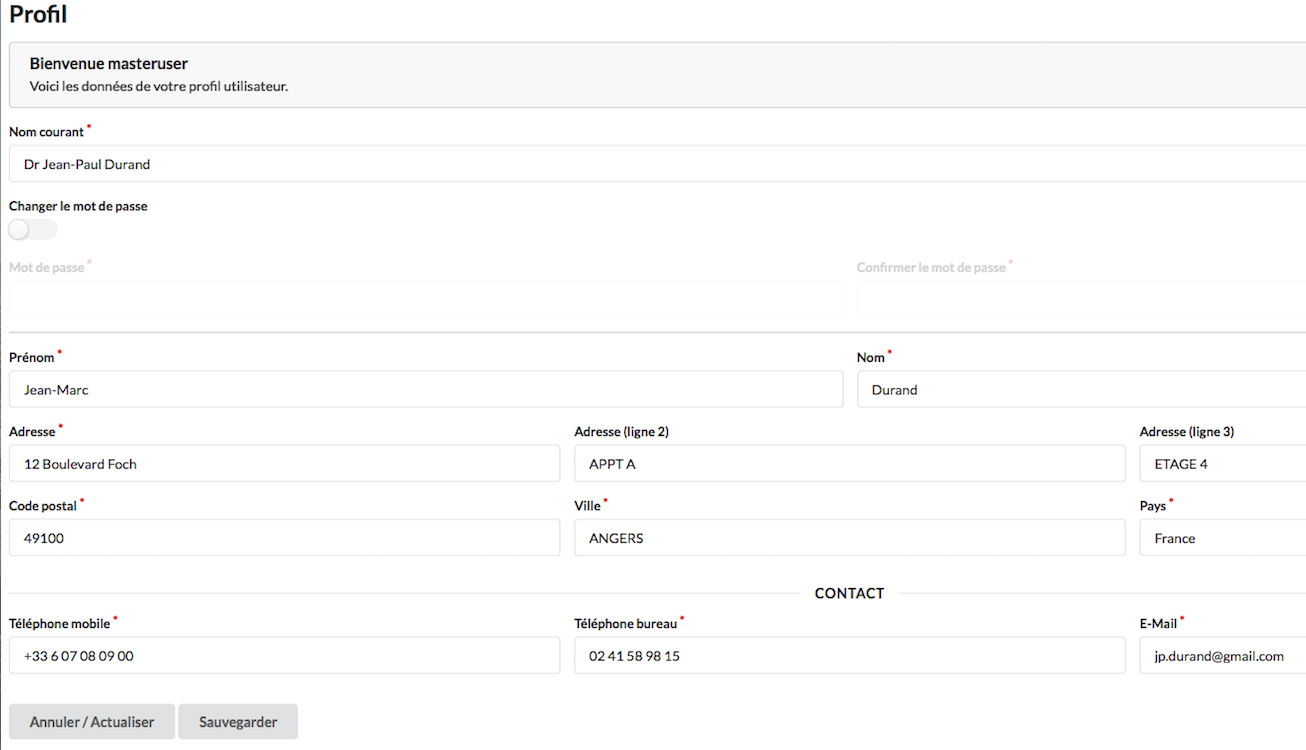
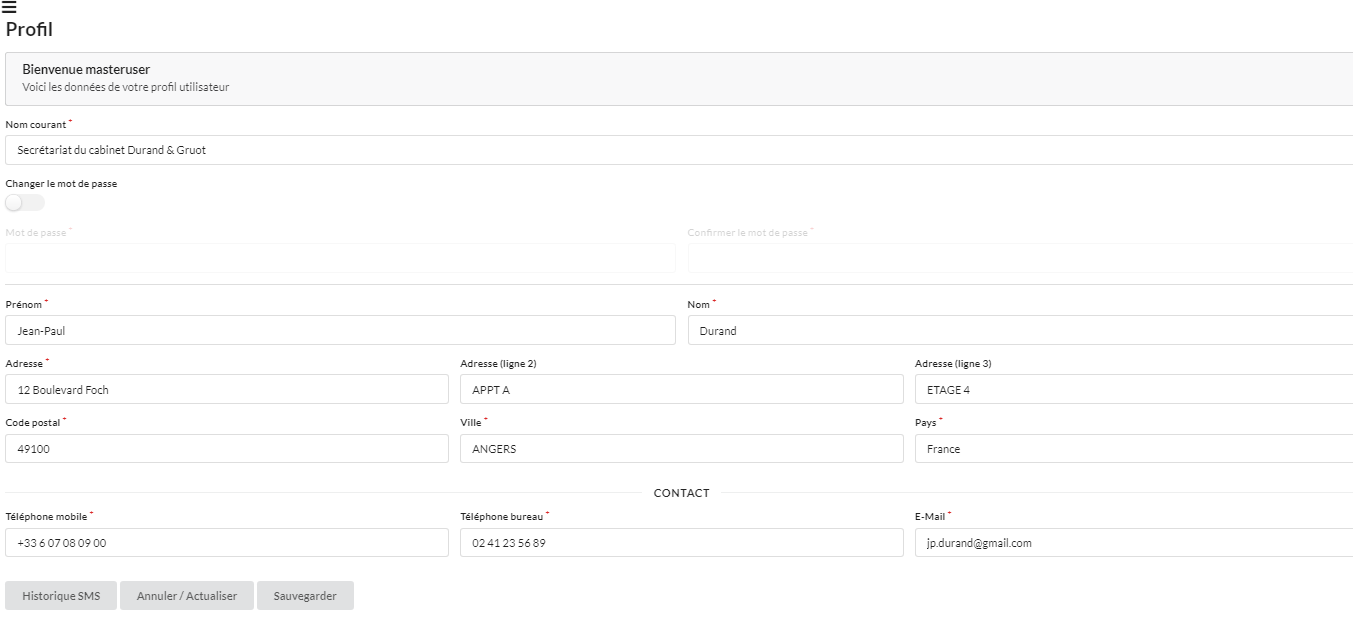
Update online docs

diff --git a/docs/Patients.md b/docs/Patients.md
@@ -1,0 +1,30 @@
+#PATIENTS
+
+Dans ce menu, le praticien peut créer, lire, mettre à jour et supprimer une fiche d'un patient.
+
+Création d'une nouvelle fiche : 
+
+![alt text](images/menu-patients.png)
+
+* Sur une fiche, les informations générales se trouvent dans la rubrique **Informations générales**. On y retrouve aussi l'identifiant du patient dans la base de données (préfixé par un "**_#_**").
+
+* Les coordonnées du patient sont dans la rubrique **Adresse et contact**. Il faut noter qu'un numéro de téléphone portable du patient est nécessaire que le praticien puisse faire un rappel de rendez-vous par SMS.
+
+##Gestion des rendez-vous
+
+Dans cette rubrique, le praticien pourra affecter au patient un niveau d'autorisation pour la prise de rendez-vous en ligne, autoriser/bloquer les rappels de rendez-vous par SMS et acceder aux autres services.
+
+![alt text](images/gestion-rdv-patients.png)
+
+Le praticien accédera aux autres services via le bouton "**Rendez-vous**".
+
+* Confirmation de Rendez-vous par SMS
+* Impression de la liste des prochains rendez-vous sur une carte
+* Historique des rendez-vous du patient
+* Génération d'un nouveau mot de passe pour le patient
+
+Une aide pour l'impression d'une carte de rendez-vous est fournie pour les navigateurs **_Google Chrome_**, **_Mozilla Firefox_**, **_Microsoft Edge_** et **_Safari_**. 
+
+Options d'impréssion de l'historique des rendez-vous : 
+
+![alt text](images/historique-rdv.png)

diff --git a/docs/Profil.md b/docs/Profil.md
@@ -1,0 +1,12 @@
+#PROFIL
+
+Le menu **Profil** permet au praticien de saisir toutes ses coordonnées administratives et de changer son mot de passe s'il le souhaite.
+
+![alt text](images/menu-profil.png)
+
+Pour modifier le mot de passe, il suffit de cocher la case "Changer le mot de passe", choisir un nouveau mot de passe puis, le confirmer.
+Cliquer ensuite sur "Sauvegarder", en bas de page, pour valider le changement.
+
+Le praticien peut aussi y consulter son **historique des sms**.
+
+![alt text](images/menu-profil-sms-history-btn)
